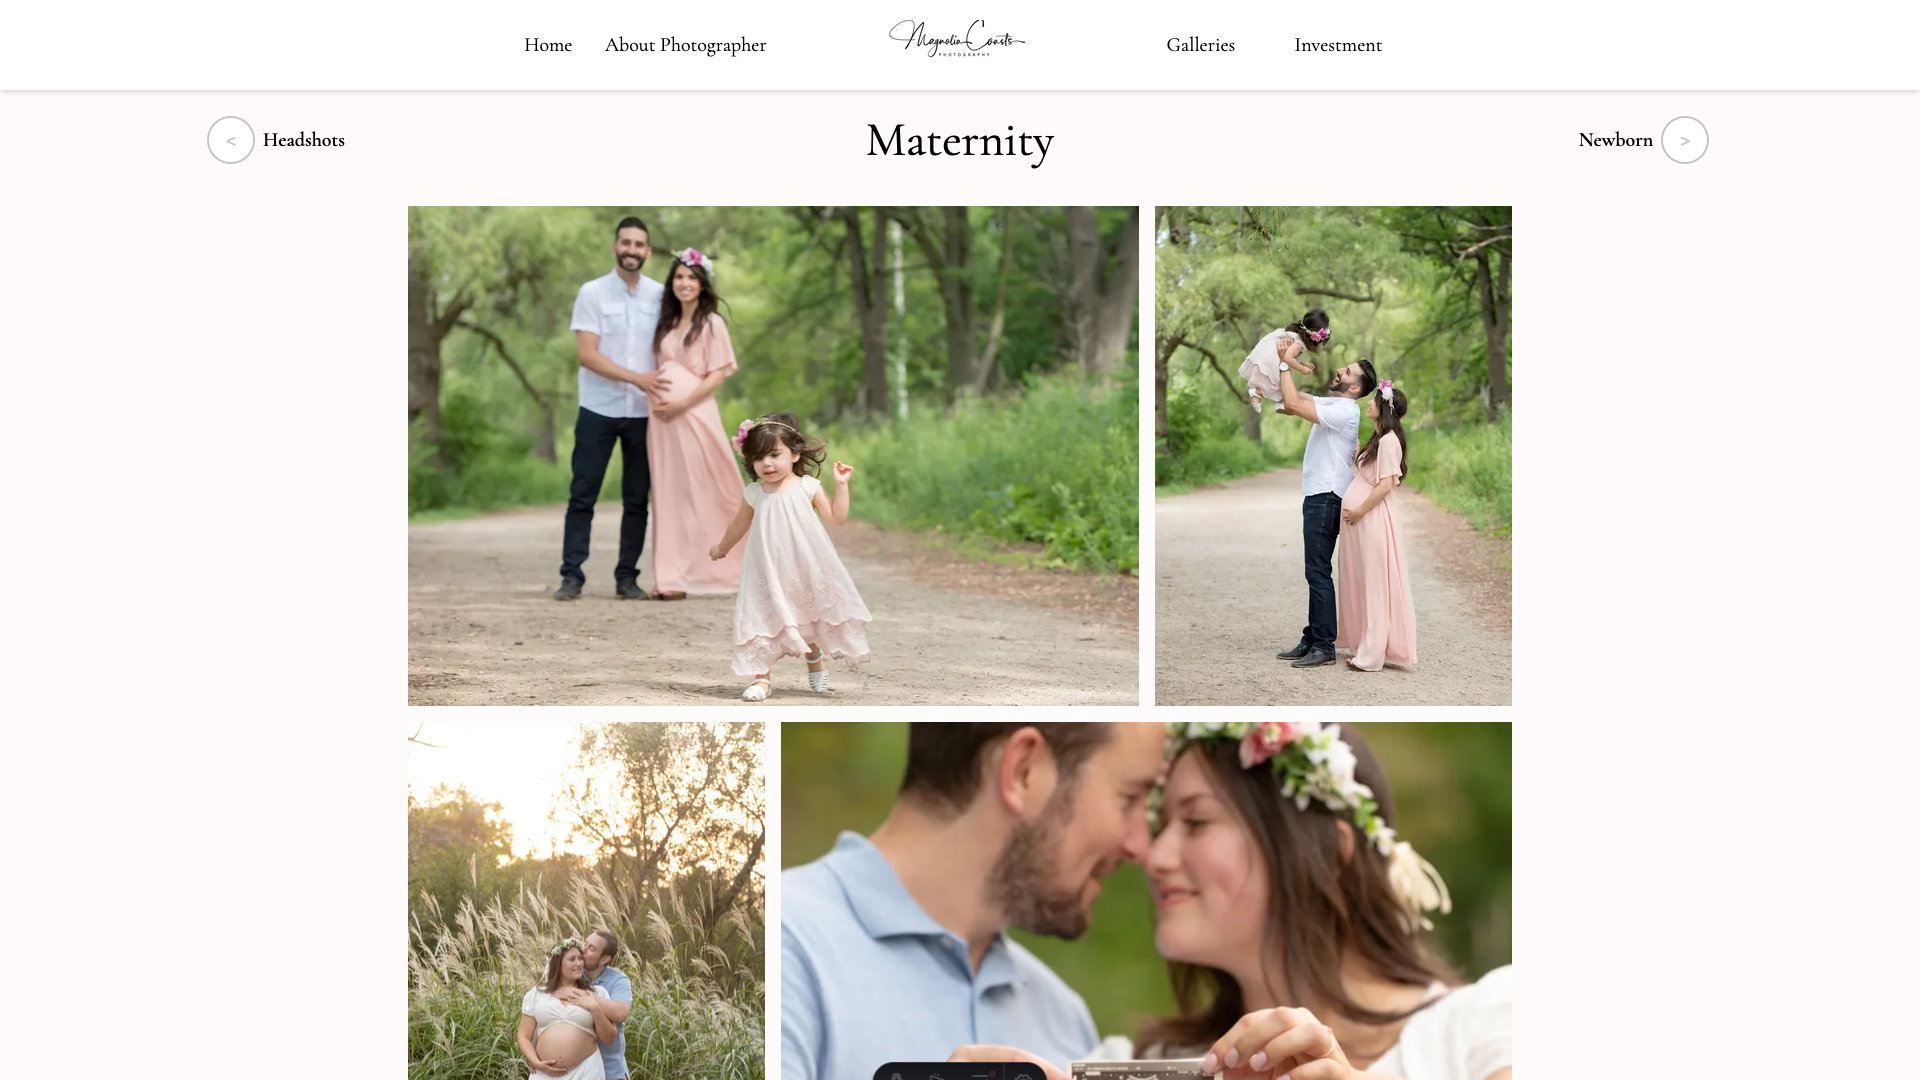
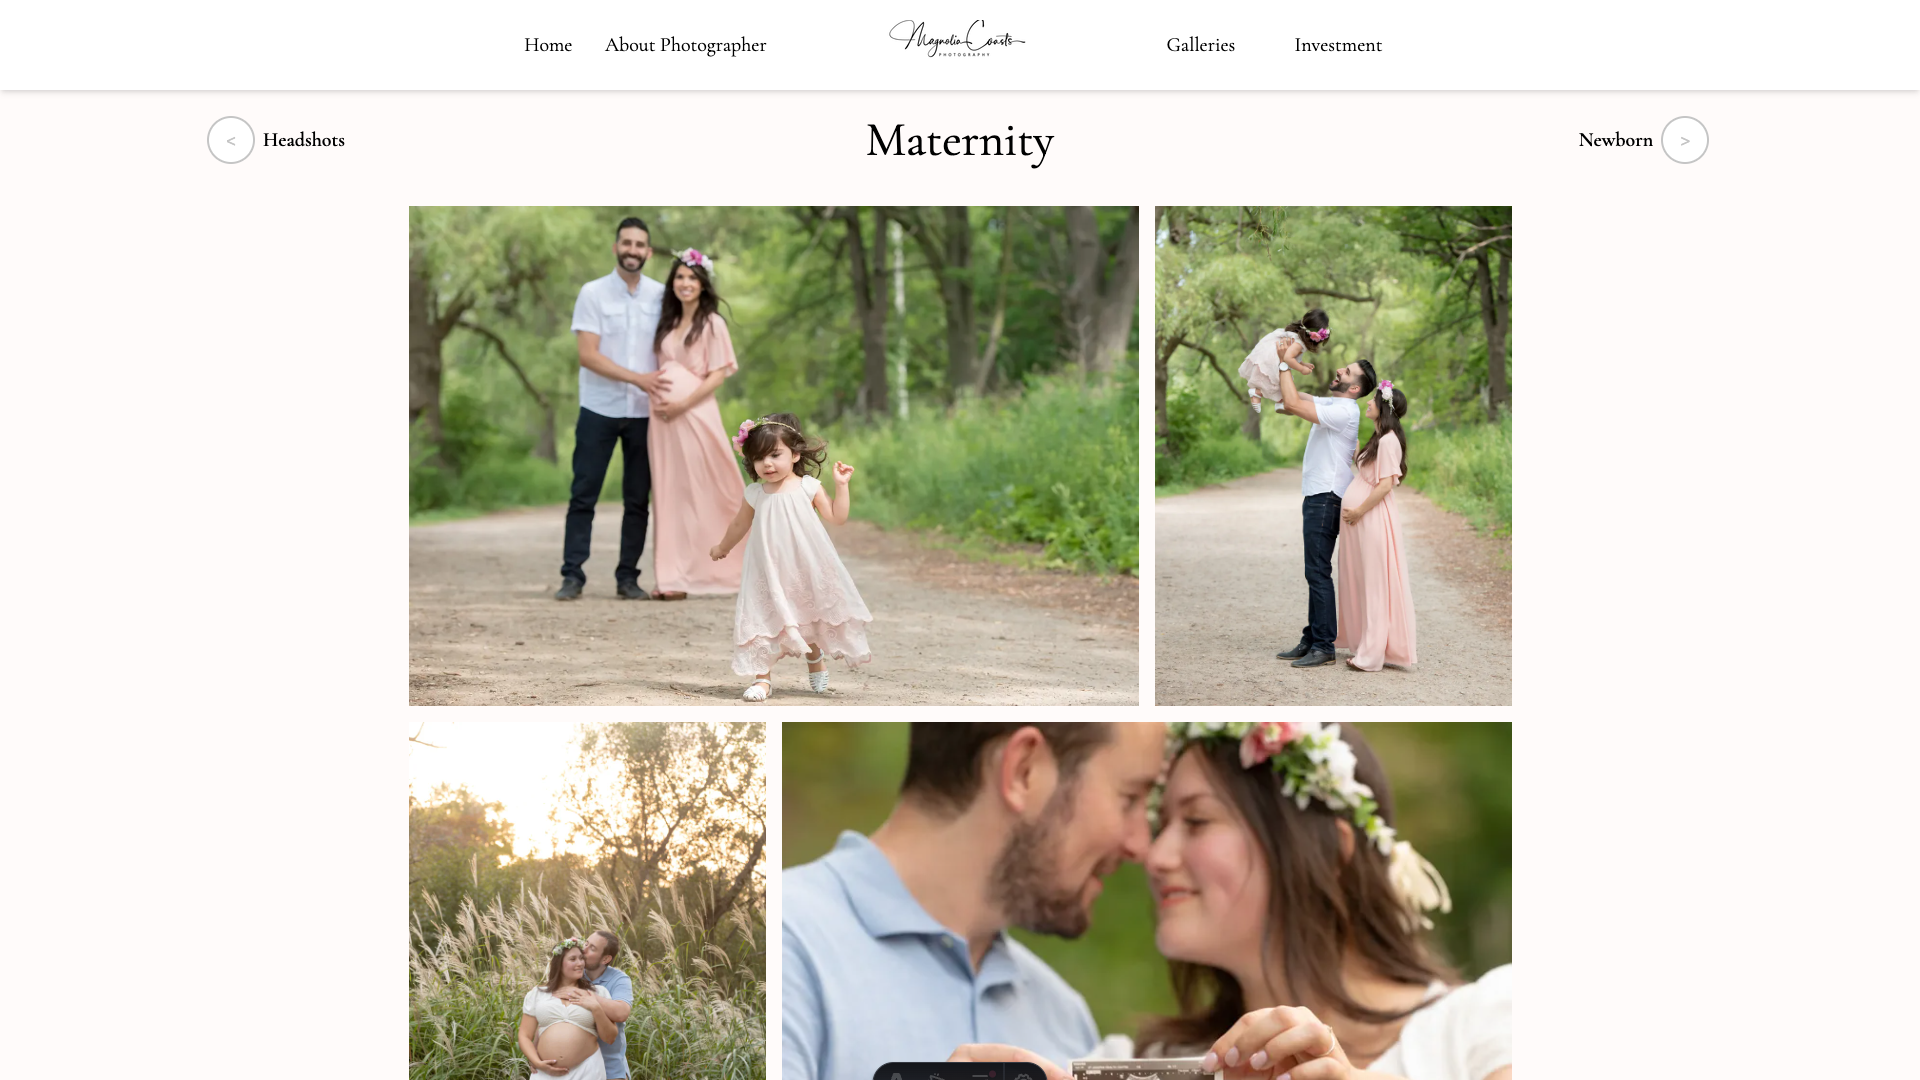
add headshots testing

Changed region(s): [[0.1875, 0.6722, 0.4062, 1.0], [0.5625, 0.9778, 0.625, 1.0]]

diff --git a/ruby/spec/features/snapshots/pages_spec.rb b/ruby/spec/features/snapshots/pages_spec.rb
@@ -17,6 +17,9 @@ galleries = [
   "/newborn",
   "/family",
   "/cakesmash",
+  "/headshots",
+  "/branding",
+  "/milestones",
 ]
 
 links = [
